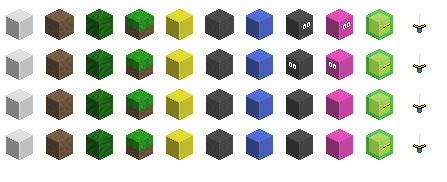
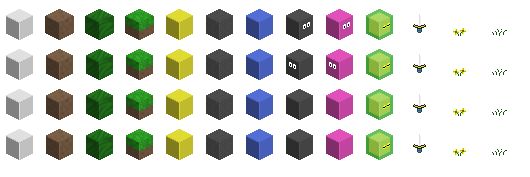
Added flowers and weeds

diff --git a/world.common.js b/world.common.js
@@ -52,6 +52,8 @@
 			var dirtBlock = world.blockTypes["materials.dirt"];
 			var goldBlock = world.blockTypes["materials.gold"];
 			var stoneBlock = world.blockTypes["materials.stone"];
+			var yellowflowersBlock = world.blockTypes["decorations.yellowflowers"];
+			var shortweedsBlock = world.blockTypes["decorations.shortweeds"];
 			var groundArea = new Area(new Coord(0, 0, -2), worldOptions.width, worldOptions.height);
 
 			// place layer of stone
@@ -69,8 +71,18 @@
 			var dirtPatchCount = Math.round(Math.random() * 9);
 			this.placeBlocks(tinycraft.builder.random(dirtBlock, groundArea, dirtPatchCount));
 
-			// place a gold block at random
+			// Go up once to place stuff "on" the ground layer
 			groundArea.coord.up();
+
+			// place random yellow flowers
+			var flowersCount = Math.round(Math.random() * 9);
+			this.placeBlocks(tinycraft.builder.random(yellowflowersBlock, groundArea, flowersCount));
+
+			// place random weeds
+			var weedCount = Math.round(Math.random() * 20);
+			this.placeBlocks(tinycraft.builder.random(shortweedsBlock, groundArea, weedCount));
+
+			// place a gold block at random
 			var randomCoord = groundArea.randomCoord();
 			console.log("random coord", randomCoord);
 			this.placeBlocks(tinycraft.builder.one(goldBlock, groundArea.randomCoord()));

diff --git a/world.common.options.js b/world.common.options.js
@@ -48,10 +48,21 @@ window.commonworld = {
 			}
 		},
 		"items": {
-			"offset": 7,
+			"offset": 10,
 			"blocks": {
 				"sword": {
 					"offset": 0
+				}
+			}
+		},
+		"decorations": {
+			"offset": 11,
+			"blocks": {
+				"yellowflowers": {
+					"offset": 0
+				},
+				"shortweeds": {
+					"offset": 1
 				}
 			}
 		}
